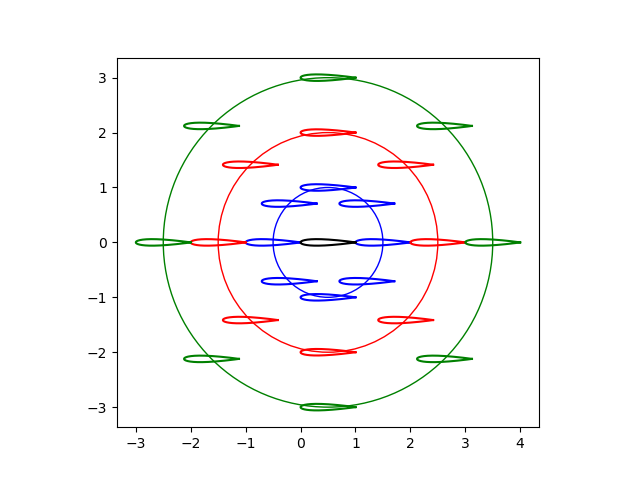
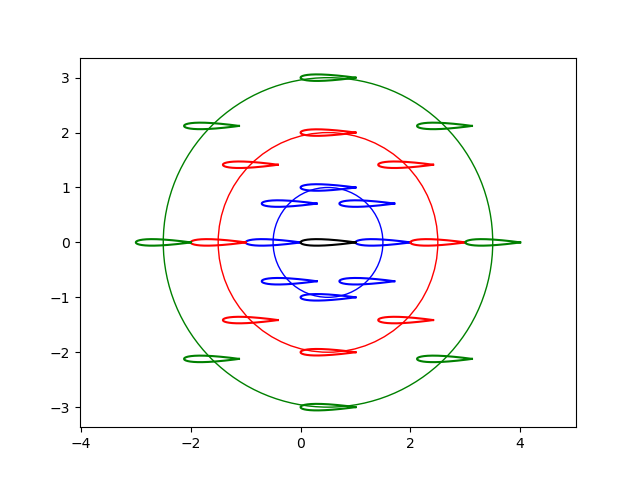
一様流ベクトル表示

diff --git a/illustMakerForGradThesis.py b/illustMakerForGradThesis.py
@@ -37,9 +37,14 @@ for radius, color in zip(radii, colors):
 origin_color = 'black'
 plot_wing_at_coordinates([(0, 0)], origin_color)
 
+# 角度5度の矢印を描画（左下から伸びる）
+arrow_angle = math.radians(5)  # 角度をラジアンに変換
+arrow_length = 3  # 矢印の長さ
+plt.arrow(-6, -6, arrow_length * math.cos(arrow_angle), arrow_length * math.sin(arrow_angle), head_width=0.2, head_length=0.3, fc='purple', ec='purple')
+
 # グラフの設定
 plt.axis('equal')
-plt.gca().set_aspect('equal', adjustable='box')
+# plt.gca().set_aspect('equal', adjustable='box')
 
 # グラフを保存して表示
 plt.savefig('naca_positions_colored.png')
